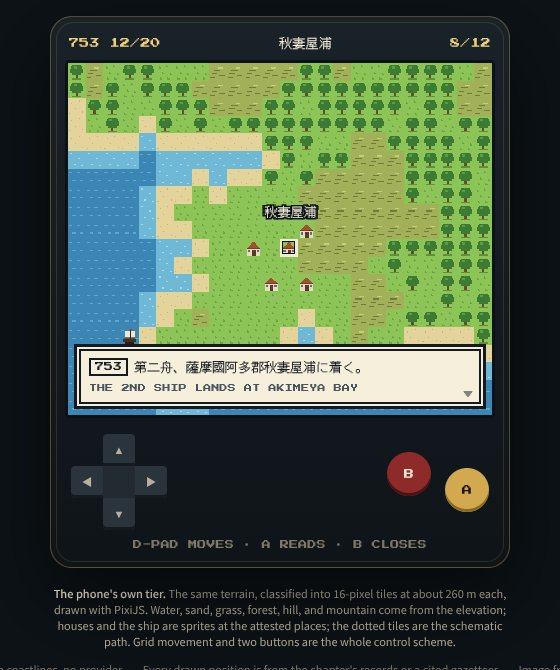
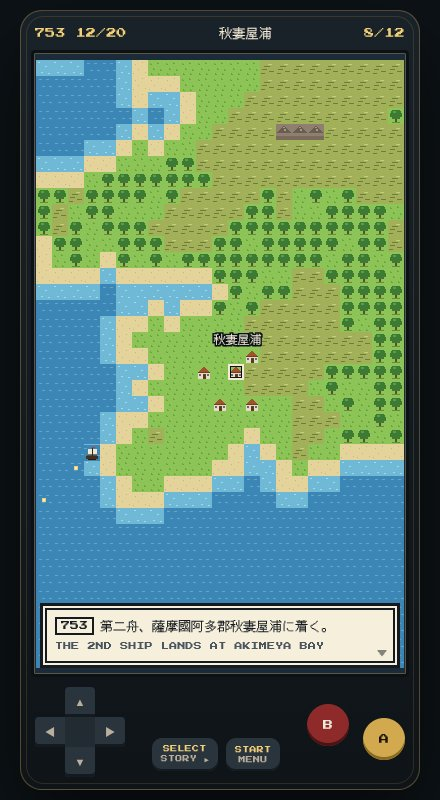
docs(rfd): tighten the handheld tier's nav and controls in the hero mock
On phones the mock's tab strip is one line, the notes leave the layout,
the tile map fills the viewport height, and the control band is compact
with Select (step the story) and Start (menu) between the d-pad and A/B,
plus hold-to-repeat on the d-pad.

Claude-Session: https://claude.ai/code/session_0184q2Vpm5iKSftnAWfwy2P6

diff --git a/rfd/0001/hero/template.html b/rfd/0001/hero/template.html
@@ -18,6 +18,7 @@ body{margin:0;background:var(--bg);color:var(--ink);font-family:var(--ui);font-s
 .brand .kind{font-size:11px;letter-spacing:.18em;text-transform:uppercase;color:var(--ink-faint)}
 .tabs{display:flex;gap:6px;flex-wrap:wrap}
 .tab{appearance:none;border:1px solid var(--line);background:transparent;color:var(--ink-dim);font:500 12px/1 var(--ui);letter-spacing:.12em;text-transform:uppercase;padding:9px 14px;border-radius:3px;cursor:pointer}
+.tab .short{display:none}
 .tab:hover{color:var(--ink);border-color:var(--gold)}
 .tab[aria-selected="true"]{background:var(--gold);color:#1a1409;border-color:var(--gold)}
 .tab:focus-visible,button:focus-visible{outline:2px solid var(--gold-bright);outline-offset:2px}
@@ -185,32 +186,42 @@ body{margin:0;background:var(--bg);color:var(--ink);font-family:var(--ui);font-s
 .honest{position:absolute;left:50%;bottom:14px;transform:translateX(-50%);background:rgba(10,14,18,.78);border:1px solid var(--line);border-radius:3px;padding:6px 12px;font:11px var(--ui);color:var(--ink-dim);max-width:min(560px,52%);text-align:center}
 .honest b{color:var(--ink);font-weight:500}
 /* handheld tier: a top-down tile map in a device frame, the phone's own register */
-.hh-wrap{display:flex;justify-content:center;padding:18px 0 6px}
-.device{width:min(100%,460px);background:linear-gradient(#1a2229,#0e1418);border:1px solid var(--line);border-radius:22px;padding:14px 14px 18px;box-shadow:0 30px 80px rgba(0,0,0,.55);position:relative}
+.hh-wrap{display:flex;justify-content:center;padding:12px 0 6px}
+.device{width:min(100%,400px);height:780px;display:flex;flex-direction:column;background:linear-gradient(#1a2229,#0e1418);border:1px solid var(--line);border-radius:22px;padding:10px 10px 12px;box-shadow:0 30px 80px rgba(0,0,0,.55);position:relative}
 .device::before{content:"";position:absolute;inset:5px;border:1px solid rgba(210,169,79,.16);border-radius:18px;pointer-events:none}
 .hh-top{display:flex;justify-content:space-between;align-items:center;font:10px "Press Start 2P","DotGothic16",monospace;color:var(--gold-bright);padding:2px 4px 8px;letter-spacing:.02em}
 .hh-top .jp{font-family:"DotGothic16","Press Start 2P",monospace;font-size:13px;color:var(--ink)}
-.screen-hh{position:relative;aspect-ratio:384/320;background:#1b2b3a;border:3px solid #0b1114;border-radius:4px;overflow:hidden;box-shadow:inset 0 0 0 1px rgba(210,169,79,.35)}
-.screen-hh canvas{display:block;width:100%;height:100%;image-rendering:pixelated;image-rendering:crisp-edges}
+.screen-hh{position:relative;flex:1;min-height:0;background:#1b2b3a;border:3px solid #0b1114;border-radius:4px;overflow:hidden;box-shadow:inset 0 0 0 1px rgba(210,169,79,.35)}
+.screen-hh canvas{position:absolute;left:50%;top:50%;transform:translate(-50%,-50%);image-rendering:pixelated;image-rendering:crisp-edges}
 .dlg{position:absolute;left:6px;right:6px;bottom:6px;background:#f5efdc;color:#141a1f;border:3px solid #141a1f;box-shadow:inset 0 0 0 2px #f5efdc,inset 0 0 0 4px #141a1f;padding:10px 12px 12px;font:13px/1.55 "DotGothic16","Press Start 2P",monospace;min-height:64px}
 .dlg .en{display:block;font:8px/1.6 "Press Start 2P",monospace;color:#4a5560;margin-top:4px;letter-spacing:.02em}
 .dlg .arrow{position:absolute;right:10px;bottom:6px;font-size:10px;animation:blink 1s steps(2) infinite}
 .dlg .tag{display:inline-block;border:2px solid #141a1f;padding:0 4px;font-size:9px;font-family:"Press Start 2P",monospace;margin-right:6px;vertical-align:1px}
 @keyframes blink{50%{opacity:0}}
 @media (prefers-reduced-motion:reduce){.dlg .arrow{animation:none}}
-.pads{display:flex;justify-content:space-between;align-items:center;padding:16px 6px 0}
-.dpad{position:relative;width:96px;height:96px}
-.dpad button{position:absolute;width:32px;height:32px;border:0;background:#2a343c;box-shadow:inset 0 -3px 0 #141a1f;cursor:pointer;color:var(--ink-dim);font-size:11px}
-.dpad .u{left:32px;top:0;border-radius:4px 4px 0 0} .dpad .d{left:32px;top:64px;border-radius:0 0 4px 4px} .dpad .l{left:0;top:32px;border-radius:4px 0 0 4px} .dpad .r{left:64px;top:32px;border-radius:0 4px 4px 0} .dpad .c{left:32px;top:32px;cursor:default;box-shadow:none;background:#222b32}
+.pads{display:flex;justify-content:space-between;align-items:center;padding:10px 4px 0;flex:none}
+.ss{display:flex;gap:8px;align-self:flex-end;margin-bottom:6px}
+.ss button{appearance:none;border:0;background:#2a343c;color:var(--ink-dim);font:7px "Press Start 2P",monospace;padding:7px 9px;border-radius:10px;box-shadow:inset 0 -2px 0 #141a1f;cursor:pointer;letter-spacing:.04em}
+.ss button b{display:block;font:7px "Press Start 2P",monospace;color:var(--gold-bright);margin-bottom:3px}
+.dpad{position:relative;width:90px;height:90px}
+.dpad button{position:absolute;width:30px;height:30px;border:0;background:#2a343c;box-shadow:inset 0 -3px 0 #141a1f;cursor:pointer;color:var(--ink-dim);font-size:11px}
+.dpad .u{left:30px;top:0;border-radius:4px 4px 0 0} .dpad .d{left:30px;top:60px;border-radius:0 0 4px 4px} .dpad .l{left:0;top:30px;border-radius:4px 0 0 4px} .dpad .r{left:60px;top:30px;border-radius:0 4px 4px 0} .dpad .c{left:30px;top:30px;cursor:default;box-shadow:none;background:#222b32}
 .dpad button:active,.ab button:active{transform:translateY(2px);box-shadow:none}
 .ab{display:flex;gap:14px;align-items:flex-end}
-.ab button{width:44px;height:44px;border-radius:50%;border:0;background:var(--gold);color:#1a1409;font:10px "Press Start 2P",monospace;box-shadow:inset 0 -3px 0 #8a6a1e;cursor:pointer}
-.ab button.b{background:#8f2a2a;color:var(--ink);box-shadow:inset 0 -3px 0 #4a1414;margin-bottom:16px}
-.hh-hint{text-align:center;margin-top:10px;font:9px "Press Start 2P",monospace;color:var(--ink-faint);letter-spacing:.02em}
-.hh-note{max-width:460px;margin:12px auto 0;font-size:11px;color:var(--ink-dim);text-align:center}
+.ab button{width:42px;height:42px;border-radius:50%;border:0;background:var(--gold);color:#1a1409;font:10px "Press Start 2P",monospace;box-shadow:inset 0 -3px 0 #8a6a1e;cursor:pointer}
+.ab button.b{background:#8f2a2a;color:var(--ink);box-shadow:inset 0 -3px 0 #4a1414;margin-bottom:14px}
+.hh-note{max-width:400px;margin:12px auto 0;font-size:11px;color:var(--ink-dim);text-align:center}
 .hh-note b{color:var(--ink);font-weight:500}
 @media (max-width:820px){
-  .hh-wrap{padding-top:4px} .device{width:100%;padding:10px 8px 12px;border-radius:16px}
+  .wrap{padding-block:8px}
+  .bar{margin-bottom:8px;gap:6px}
+  .brand .kind{display:none}
+  .tabs{flex-wrap:nowrap;overflow-x:auto;gap:4px;width:100%;scrollbar-width:none}
+  .tab{padding:7px 10px;font-size:10px;letter-spacing:.08em;white-space:nowrap;flex:none}
+  .tab .long{display:none} .tab .short{display:inline}
+  .foot,.hh-note{display:none}
+  .hh-wrap{padding:0} .device{width:100%;height:calc(100dvh - 88px);min-height:520px;padding:6px 6px 10px;border-radius:14px}
+  .hh-top{padding:2px 4px 6px}
   .journal,.pennants{display:none}
   .civbar{height:32px;padding:0 10px}
   .civbar .stat{gap:8px;font-size:10px;white-space:nowrap}
@@ -253,11 +264,11 @@ body{margin:0;background:var(--bg);color:var(--ink);font-family:var(--ui);font-s
   <div class="bar">
     <div class="brand"><span class="name">LEKISHI</span><span class="kind">UI mock · hero candidates · 2026-10-10</span></div>
     <div class="tabs" role="tablist" aria-label="Scale">
-      <button class="tab" role="tab" id="tab-globe" aria-selected="false" data-screen="globe">Globe</button>
-      <button class="tab" role="tab" id="tab-region" aria-selected="true" data-screen="region">Region · the hero</button>
-      <button class="tab" role="tab" id="tab-diorama" aria-selected="false" data-screen="diorama">Diorama · 秋妻屋浦</button>
-      <button class="tab" role="tab" id="tab-handheld" aria-selected="false" data-screen="handheld">Handheld · 2D phone</button>
-      <button class="tab" role="tab" id="tab-local" aria-selected="false" data-screen="local">Local · 平城京</button>
+      <button class="tab" role="tab" id="tab-globe" aria-selected="false" data-screen="globe"><span class="long">Globe</span><span class="short">Globe</span></button>
+      <button class="tab" role="tab" id="tab-region" aria-selected="true" data-screen="region"><span class="long">Region · the hero</span><span class="short">Region</span></button>
+      <button class="tab" role="tab" id="tab-diorama" aria-selected="false" data-screen="diorama"><span class="long">Diorama · 秋妻屋浦</span><span class="short">Diorama</span></button>
+      <button class="tab" role="tab" id="tab-handheld" aria-selected="false" data-screen="handheld"><span class="long">Handheld · 2D phone</span><span class="short">Handheld</span></button>
+      <button class="tab" role="tab" id="tab-local" aria-selected="false" data-screen="local"><span class="long">Local · 平城京</span><span class="short">Local</span></button>
     </div>
   </div>
 
@@ -360,12 +371,12 @@ body{margin:0;background:var(--bg);color:var(--ink);font-family:var(--ui);font-s
         </div>
         <div class="pads">
           <div class="dpad" role="group" aria-label="Move the cursor"><button type="button" class="u" data-dir="0,-1" aria-label="Up">▲</button><button type="button" class="l" data-dir="-1,0" aria-label="Left">◀</button><button type="button" class="c" tabindex="-1" aria-hidden="true"></button><button type="button" class="r" data-dir="1,0" aria-label="Right">▶</button><button type="button" class="d" data-dir="0,1" aria-label="Down">▼</button></div>
-          <div class="ab"><button type="button" class="b" id="hh-b" aria-label="Close">B</button><button type="button" class="a" id="hh-a" aria-label="Select">A</button></div>
+          <div class="ss"><button type="button" id="hh-select"><b>SELECT</b>STORY ▶</button><button type="button" id="hh-start"><b>START</b>MENU</button></div>
+          <div class="ab"><button type="button" class="b" id="hh-b" aria-label="Close">B</button><button type="button" class="a" id="hh-a" aria-label="Read">A</button></div>
         </div>
-        <div class="hh-hint">D-PAD MOVES · A READS · B CLOSES</div>
       </div>
     </div>
-    <p class="hh-note"><b>The phone's own tier.</b> The same terrain, classified into 16-pixel tiles at about 260 m each, drawn with PixiJS. Water, sand, grass, forest, hill, and mountain come from the elevation; houses and the ship are sprites at the attested places; the dotted tiles are the schematic path. Grid movement and two buttons are the whole control scheme.</p>
+    <p class="hh-note"><b>The phone's own tier.</b> The same terrain in 16-pixel tiles at about 260 m, drawn with PixiJS; sprites at the attested places; dotted tiles for the schematic path. D-pad moves, A reads, B closes, Select steps the story, Start opens the menu. Arrow keys, Enter, Escape, Tab, and M on a keyboard.</p>
   </section>
 
   <!-- ===== LOCAL ===== -->
@@ -745,10 +756,12 @@ function drawHandheld(){
     a.clearRect(12*S,0,S,S); px(12,0,0,"#f3ead7",16,2); px(12,0,14,"#f3ead7",16,2); px(12,0,0,"#f3ead7",2,16); px(12,14,0,"#f3ead7",2,16); px(12,2,2,"#0b1114",12,1); px(12,2,13,"#0b1114",12,1); px(12,2,2,"#0b1114",1,12); px(12,13,2,"#0b1114",1,12);
     PIXI.BaseTexture.defaultOptions.scaleMode=PIXI.SCALE_MODES.NEAREST;
     const base=PIXI.BaseTexture.from(atlas); const tex=[]; for(let i=0;i<N;i++) tex.push(new PIXI.Texture(base,new PIXI.Rectangle(i*S,0,S,S)));
-    const canvas=document.getElementById("hh-canvas"); const VW=24,VH=20;
+    const canvas=document.getElementById("hh-canvas"), screenEl=canvas.parentElement; let VW=24,VH=20;
     const app=new PIXI.Application({view:canvas,width:VW*S,height:VH*S,backgroundColor:0x1f5a80,antialias:false,resolution:1,autoDensity:false});
     const tiles=new PIXI.Container(), objs=new PIXI.Container(); app.stage.addChild(tiles,objs);
-    const pool=[]; for(let i=0;i<VW*VH;i++){ const sp=new PIXI.Sprite(tex[1]); sp.x=(i%VW)*S; sp.y=((i/VW)|0)*S; tiles.addChild(sp); pool.push(sp); }
+    let pool=[];
+    function fit(){ const w=screenEl.clientWidth, h=screenEl.clientHeight; const nw=Math.max(10,Math.floor(w/S)), nh=Math.max(10,Math.floor(h/S)); if(nw===VW&&nh===VH&&pool.length) return; VW=nw; VH=nh; app.renderer.resize(VW*S,VH*S); canvas.style.width=(VW*S)+"px"; canvas.style.height=(VH*S)+"px"; tiles.removeChildren(); pool=[]; for(let i=0;i<VW*VH;i++){ const sp=new PIXI.Sprite(tex[1]); sp.x=(i%VW)*S; sp.y=((i/VW)|0)*S; tiles.addChild(sp); pool.push(sp); } }
+    fit(); window.addEventListener("resize",()=>{ fit(); });
     const toTile=(lon,lat)=>[Math.round((mx(lon)-HM.MX0)/(HM.MX1-HM.MX0)*cols), Math.round((my(lat)-HM.MY0)/(HM.MY1-HM.MY0)*rows)];
     // objects: houses at the attested places, the ship, the path, labels
     const bay=toTile(130.232,31.27), ei=toTile(130.492,31.239), kaimon=toTile(130.528,31.18), north=toTile(130.30,31.40);
@@ -760,7 +773,7 @@ function drawHandheld(){
     const shipT=route[2]; const ship=addObj(shipT[0],shipT[1],10); addObj(ei[0]-1,ei[1]+1,10);
     const labels=[["秋妻屋浦",bay[0]-1,bay[1]-2],["石籬浦",ei[0]-1,ei[1]-2],["開聞岳",kaimon[0]-1,kaimon[1]-2],["薩摩",north[0]+3,north[1]+1]];
     for(const [t,c,r] of labels){ const txt=new PIXI.Text(t,{fontFamily:'"DotGothic16","Press Start 2P",monospace',fontSize:12,fill:"#f3ead7",stroke:"#0b1114",strokeThickness:3}); txt.resolution=1; objs.addChild(txt); objects.push({c,r,sp:txt}); }
-    const cursor=new PIXI.Sprite(tex[12]); objs.addChild(cursor);
+    const cursor=new PIXI.Sprite(tex[12]); objs.addChild(cursor); objs.sortableChildren=true; cursor.zIndex=10;
     let cur=[bay[0],bay[1]]; let cam=[0,0]; let frame=0;
     const events={[bay.join()]:{p:"秋妻屋浦",jp:"第二舟、薩摩國阿多郡秋妻屋浦に着く。",en:"THE 2ND SHIP LANDS AT AKIMEYA BAY",tag:"753"},[ei.join()]:{p:"石籬浦",jp:"第四舟は石籬浦に着いたと大宰府が報ず。",en:"THE 4TH SHIP MADE LAND AT ISHIGAKI",tag:"754"},[shipT.join()]:{p:"第二舟",jp:"鑒眞、大伴古麻呂らを乗せた第二舟。益救島より南風に乗る。",en:"JIANZHEN'S SHIP, FROM YAKU ON A SOUTH WIND",tag:"12/20"},[kaimon.join()]:{p:"開聞岳",jp:"開聞岳。薩摩の南端に立つ火山。地名の目印。",en:"MT KAIMON · A LANDMARK, NOT AN EVENT",tag:"地"}};
     const desc={[T.DEEP]:"深い海。",[T.WATER]:"海。",[T.SHALLOW]:"浅瀬。",[T.SAND]:"浜。",[T.GRASS]:"草地。",[T.FOREST]:"林。",[T.HILL]:"丘。",[T.MTN]:"山。",[T.PEAK]:"高い山。"};
@@ -773,9 +786,14 @@ function drawHandheld(){
     const reduce=matchMedia("(prefers-reduced-motion: reduce)").matches; app.ticker.add(()=>{ if(!reduce) frame++; render(); });
     function move(dx,dy){ cur=[Math.min(cols-1,Math.max(0,cur[0]+dx)),Math.min(rows-1,Math.max(0,cur[1]+dy))]; dlg.hidden=true; const ev=events[cur.join()]; placeEl.textContent=ev?ev.p:desc[t2[cur[1]*cols+cur[0]]]; }
     function act(){ const ev=events[cur.join()]; if(ev) say(ev.tag,ev.jp,ev.en); else say("?",desc[t2[cur[1]*cols+cur[0]]],"NOTHING RECORDED HERE"); }
-    document.querySelectorAll(".dpad button[data-dir]").forEach(b=>b.addEventListener("click",()=>{ const [dx,dy]=b.dataset.dir.split(",").map(Number); move(dx,dy); }));
+    document.querySelectorAll(".dpad button[data-dir]").forEach(b=>{ const [dx,dy]=b.dataset.dir.split(",").map(Number); let rep=null; const start=e=>{ e.preventDefault(); move(dx,dy); clearInterval(rep); rep=setInterval(()=>move(dx,dy),140); }; const stop=()=>{ clearInterval(rep); rep=null; }; b.addEventListener("pointerdown",start); b.addEventListener("pointerup",stop); b.addEventListener("pointerleave",stop); b.addEventListener("pointercancel",stop); b.addEventListener("keydown",e=>{ if(e.key==="Enter"||e.key===" "){ e.preventDefault(); move(dx,dy); } }); });
     document.getElementById("hh-a").addEventListener("click",act); document.getElementById("hh-b").addEventListener("click",()=>{ dlg.hidden=true; });
-    window.addEventListener("keydown",ev=>{ if(document.getElementById("screen-handheld").hidden) return; const m={ArrowUp:[0,-1],ArrowDown:[0,1],ArrowLeft:[-1,0],ArrowRight:[1,0]}[ev.key]; if(m){ ev.preventDefault(); move(...m); } else if(ev.key==="Enter"||ev.key===" "||ev.key==="a"){ ev.preventDefault(); act(); } else if(ev.key==="Escape"||ev.key==="b"){ dlg.hidden=true; } });
+    // Select steps the story: the cursor jumps to the next event tile and reads it. Start opens the menu in the same box.
+    const storyTiles=[shipT,bay,ei]; let storyI=1;
+    function nextStory(){ storyI=(storyI+1)%storyTiles.length; cur=[...storyTiles[storyI]]; const ev=events[cur.join()]; placeEl.textContent=ev.p; say(ev.tag,ev.jp,ev.en); }
+    function menu(){ say("MENU","▶ 物語 STORY　　資料 SOURCES<br>　 地図 MAP　　　章 ABOUT","B CLOSES · SELECT STEPS THE STORY"); }
+    document.getElementById("hh-select").addEventListener("click",nextStory); document.getElementById("hh-start").addEventListener("click",menu);
+    window.addEventListener("keydown",ev=>{ if(document.getElementById("screen-handheld").hidden) return; const m={ArrowUp:[0,-1],ArrowDown:[0,1],ArrowLeft:[-1,0],ArrowRight:[1,0]}[ev.key]; if(m){ ev.preventDefault(); move(...m); } else if(ev.key==="Enter"||ev.key===" "||ev.key==="a"){ ev.preventDefault(); act(); } else if(ev.key==="Escape"||ev.key==="b"){ dlg.hidden=true; } else if(ev.key==="Tab"){ ev.preventDefault(); nextStory(); } else if(ev.key==="m"){ menu(); } });
     render();
   }; img.src="__HEIGHT__";
 }
